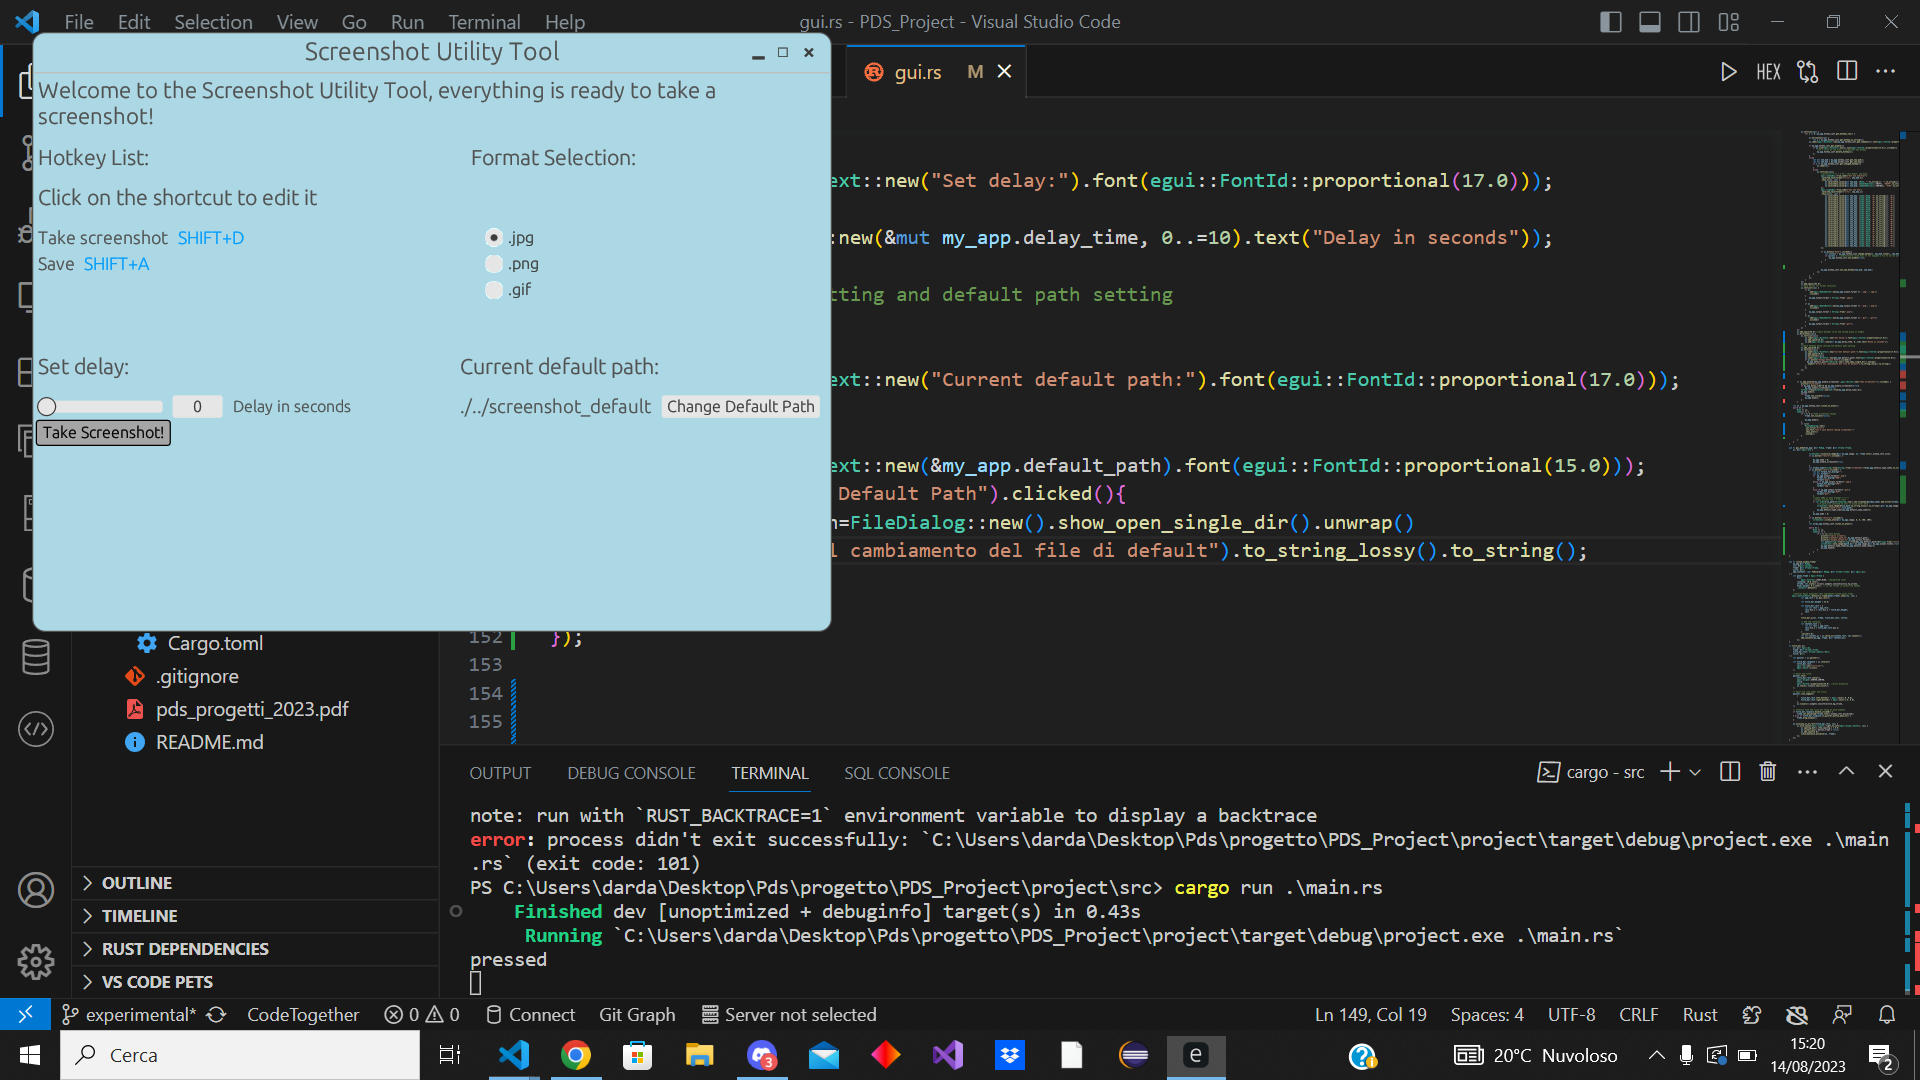
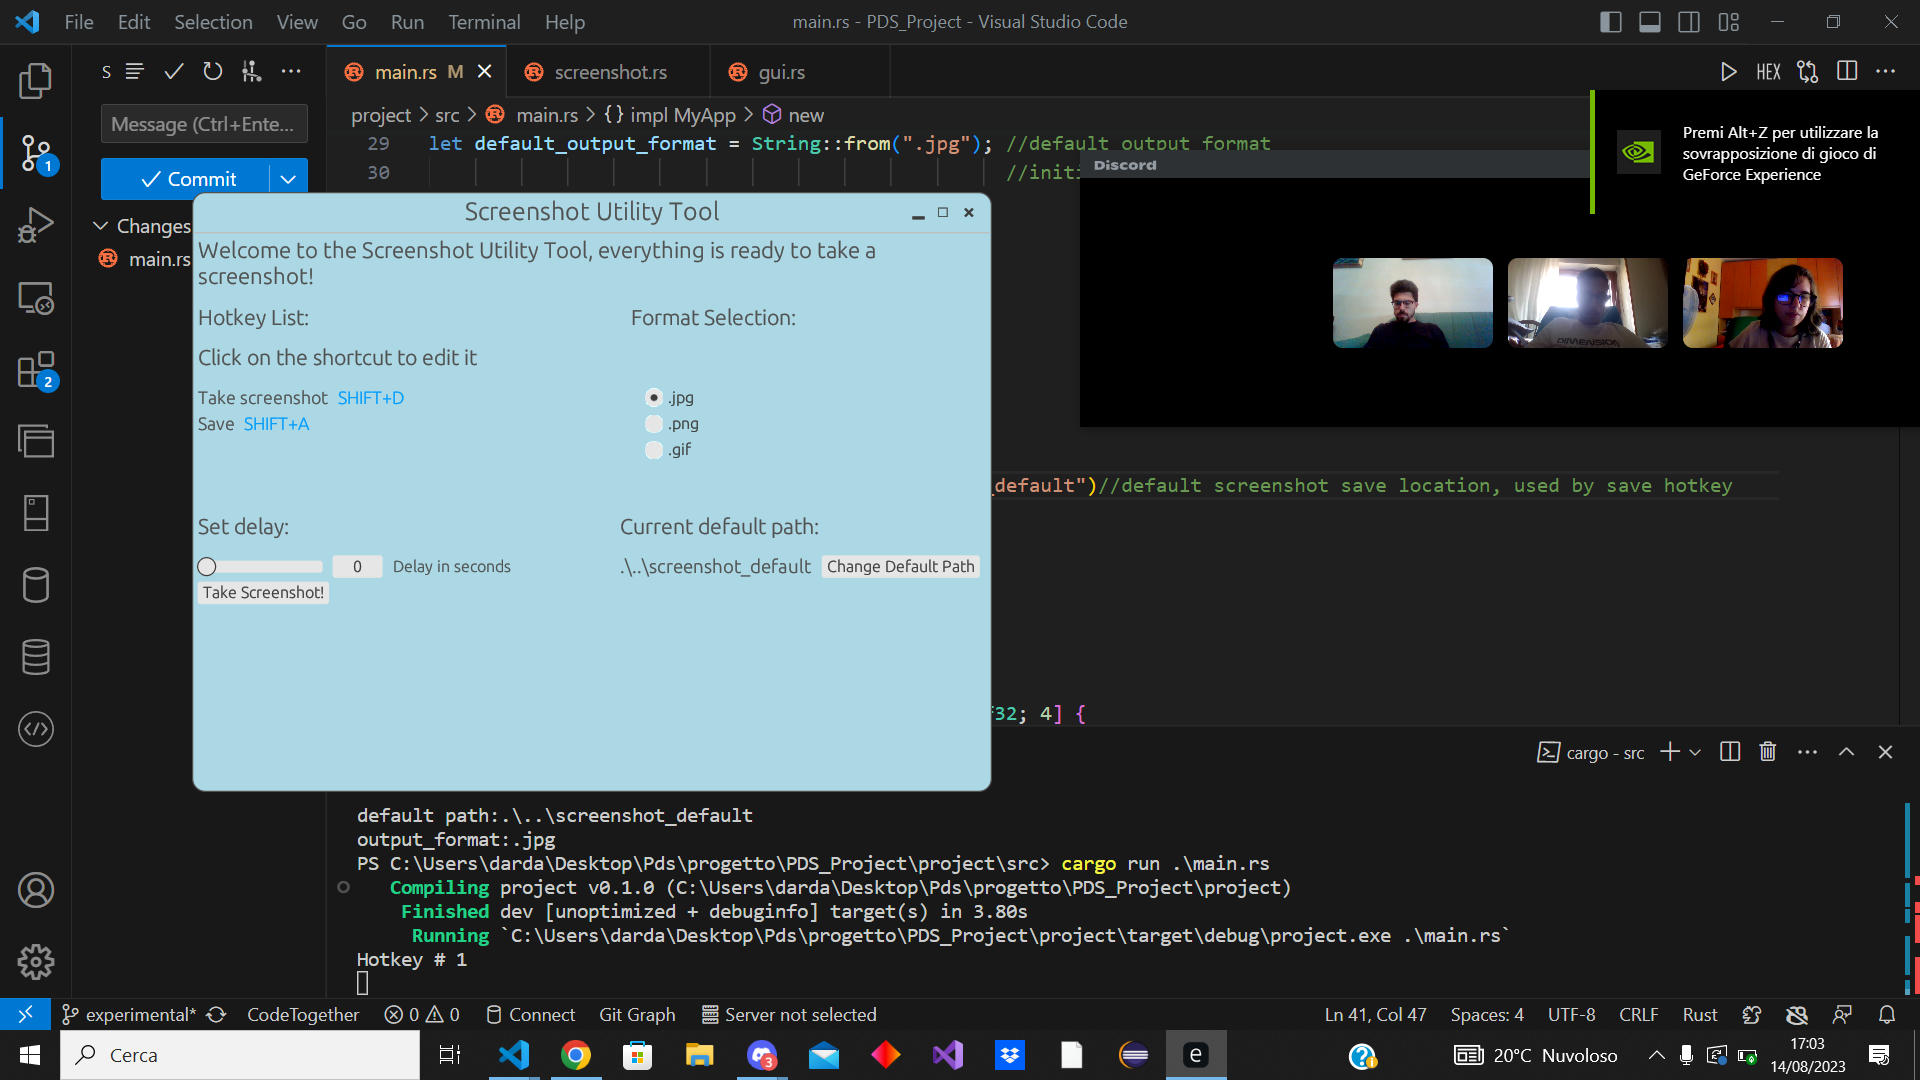
replaced / with \

diff --git a/Project/src/main.rs b/Project/src/main.rs
@@ -38,7 +38,7 @@ impl MyApp {
             delay_time:0,
 
             enable_screenshot:true,
-            default_path:String::from("./../screenshot_default")//default screenshot save location, used by save hotkey
+            default_path:String::from(".\\..\\screenshot_default")//default screenshot save location, used by save hotkey
         }
     }
 }
